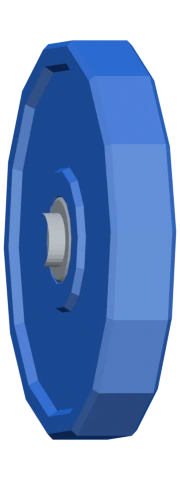
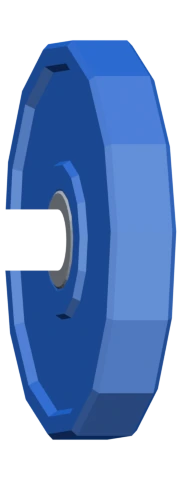
fix(web): re-import the plate-calculator sprites, fix the hub/collar clipping
The bars are redesigned and every plate/collar now carries an alpha-zero
bore, so the sleeve shows through instead of the hub or collar drawing on
top of a plate face. sprite-geometry.ts is regenerated from the new
manifest.json (only the bar and collar dimensions actually moved; the seven
plate sprites are geometrically unchanged, just their alpha channel gained
the hole). Draw order and mirroring in layout.ts/PlateStack.tsx already
matched the manifest's layers rule, so neither needed to change.

Verified against the real app (not just a script) across all six required
scenarios via the e2e fake-backend harness: empty bar, single and multi-
plate loads, all three bars, and lb mode. Flush, no gaps, no clipping.

Changed region(s): [[0.0, 0.3125, 0.5, 0.6875]]

diff --git a/apps/web/src/assets/plate-calculator/sprite-geometry.ts b/apps/web/src/assets/plate-calculator/sprite-geometry.ts
@@ -38,7 +38,7 @@ export const PLATE_SPRITES: readonly PlateSprite[] = [
   { width: 96, anchorX: 65.32, advance: 34.65 }, // lightGrey/1.25kg/2.5lb
 ];
 
-export const COLLAR_SPRITE: PlateSprite = { width: 68, anchorX: 54.89, advance: 28.87 };
+export const COLLAR_SPRITE: PlateSprite = { width: 58, anchorX: 43.44, advance: 28.87 };
 
 export interface BarSprite {
   readonly shaftWidth: number;
@@ -59,36 +59,36 @@ export interface BarSprite {
 
 export const BAR_SPRITES: Record<'bar_20' | 'bar_15' | 'bar_ez', BarSprite> = {
   bar_20: {
-    shaftWidth: 1286,
+    shaftWidth: 1238,
     shaftHeight: 480,
-    shaftHalfLength: 635.22,
-    shaftLocalAnchorX: 7.78,
-    sleeveWidth: 444,
+    shaftHalfLength: 611.16,
+    shaftLocalAnchorX: 7.84,
+    sleeveWidth: 474,
     sleeveHeight: 480,
-    sleeveLocalAnchorX: 431.75,
-    sleevePlateStartLocalX: 407.69,
-    sleeveLocalEndX: 8.27,
+    sleeveLocalAnchorX: 459.28,
+    sleevePlateStartLocalX: 432.33,
+    sleeveLocalEndX: 11.74,
   },
   bar_15: {
-    shaftWidth: 1286,
+    shaftWidth: 1238,
     shaftHeight: 480,
-    shaftHalfLength: 635.22,
-    shaftLocalAnchorX: 7.78,
-    sleeveWidth: 352,
+    shaftHalfLength: 611.16,
+    shaftLocalAnchorX: 7.84,
+    sleeveWidth: 382,
     sleeveHeight: 480,
-    sleeveLocalAnchorX: 340.04,
-    sleevePlateStartLocalX: 315.98,
-    sleeveLocalEndX: 7.99,
+    sleeveLocalAnchorX: 367.56,
+    sleevePlateStartLocalX: 340.61,
+    sleeveLocalEndX: 11.45,
   },
   bar_ez: {
-    shaftWidth: 708,
+    shaftWidth: 660,
     shaftHeight: 480,
-    shaftHalfLength: 346.485,
-    shaftLocalAnchorX: 7.52,
-    sleeveWidth: 250,
+    shaftHalfLength: 322.42,
+    shaftLocalAnchorX: 7.58,
+    sleeveWidth: 282,
     sleeveHeight: 480,
-    sleeveLocalAnchorX: 238.51,
-    sleevePlateStartLocalX: 214.45,
-    sleeveLocalEndX: 7.52,
+    sleeveLocalAnchorX: 267.03,
+    sleevePlateStartLocalX: 240.08,
+    sleeveLocalEndX: 11.98,
   },
 };

diff --git a/apps/web/src/assets/plate-calculator/layout.test.ts b/apps/web/src/assets/plate-calculator/layout.test.ts
@@ -8,8 +8,8 @@ describe('layoutBar', () => {
   it('places the collar against the stop on an empty bar', () => {
     const layout = layoutBar(bar20, []);
     expect(layout.plates).toEqual([]);
-    // plate_start, in world coordinates: -(635.22 + (431.75 - 407.69))
-    expect(layout.collar.x + 54.89).toBeCloseTo(-659.28, 1);
+    // plate_start, in world coordinates: -(611.16 + (459.28 - 432.33))
+    expect(layout.collar.x + 43.44).toBeCloseTo(-638.11, 1);
   });
 
   it('stacks plates outward from the stop, each butting the one before it', () => {
@@ -18,11 +18,11 @@ describe('layoutBar', () => {
 
     const [red, blue] = layout.plates;
     // The red plate's anchor sits at plate_start.
-    expect((red?.x ?? 0) + 135.57).toBeCloseTo(-659.28, 1);
+    expect((red?.x ?? 0) + 135.57).toBeCloseTo(-638.11, 1);
     // The blue plate's anchor sits one red-thickness further out.
-    expect((blue?.x ?? 0) + 122.72).toBeCloseTo(-659.28 - 73.15, 1);
+    expect((blue?.x ?? 0) + 122.72).toBeCloseTo(-638.11 - 73.15, 1);
     // The collar follows the blue plate by blue's own advance.
-    expect(layout.collar.x + 54.89).toBeCloseTo(-659.28 - 73.15 - 65.45, 1);
+    expect(layout.collar.x + 43.44).toBeCloseTo(-638.11 - 73.15 - 65.45, 1);
   });
 
   it('keeps every piece on the shared axis row', () => {
@@ -36,7 +36,7 @@ describe('layoutBar', () => {
   it('sets the frame half-width to the sleeve tip, independent of what is loaded', () => {
     const empty = layoutBar(bar20, []);
     const loaded = layoutBar(bar20, [0, 0, 0, 3, 5]);
-    expect(empty.halfWidth).toBeCloseTo(1058.7, 1);
+    expect(empty.halfWidth).toBeCloseTo(1058.7, 1); // coincidentally unchanged from the old bar
     expect(loaded.halfWidth).toBe(empty.halfWidth);
   });
 

diff --git a/FIXES.md b/FIXES.md
@@ -21,3 +21,20 @@ chips fill the card width and "on a 20 kg bar" drops to a second line on its
 own. It still reads fine, just worth a glance on a real narrow phone (this
 was checked at a Pixel-7-width viewport) to confirm it doesn't look like a
 stray orphaned line.
+
+## The 2.5 kg and 1.25 kg plates all but disappear against the sleeve
+
+Re-checked after the sprite re-import (bars redesigned, transparent bores
+added, `manifest.json`'s `layers` order now followed exactly — see the git
+log for the commit this note landed in). The layering itself is correct: a
+25+20+2.5+1.25-per-side load stacks flush, in the right order, with no hub
+or bar drawn over a plate face. But `plate_kg_2.5` (dark grey) and
+`plate_kg_1.25` (light grey) are close enough in tone to the sleeve's own
+metal that on a real screen they read as part of the hub rather than as
+their own discs — a pixel sample along the bar axis on that load shows a
+smooth gray gradient from the sleeve straight into the blue 20, with no
+perceptible step where the two grey plates sit. Red, blue, yellow, green and
+black are all fine; only the two lightest plates and the collar (also
+silver) are affected. Not something layout or draw order can fix — it would
+need a tone or rim-highlight change in the 3D source (`3d-models/plate-calculator/`)
+to give `plate_kg_2.5` and `plate_kg_1.25` more contrast against the sleeve.
